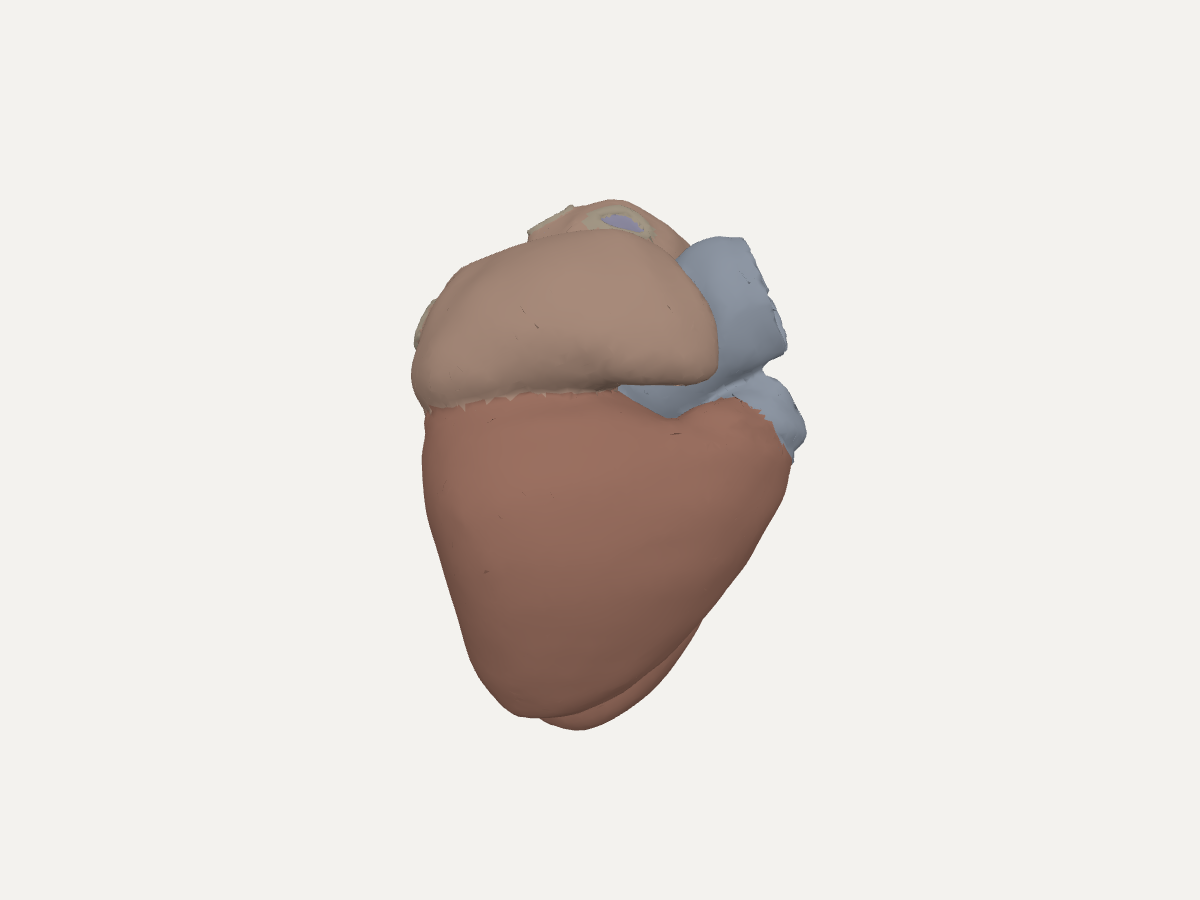
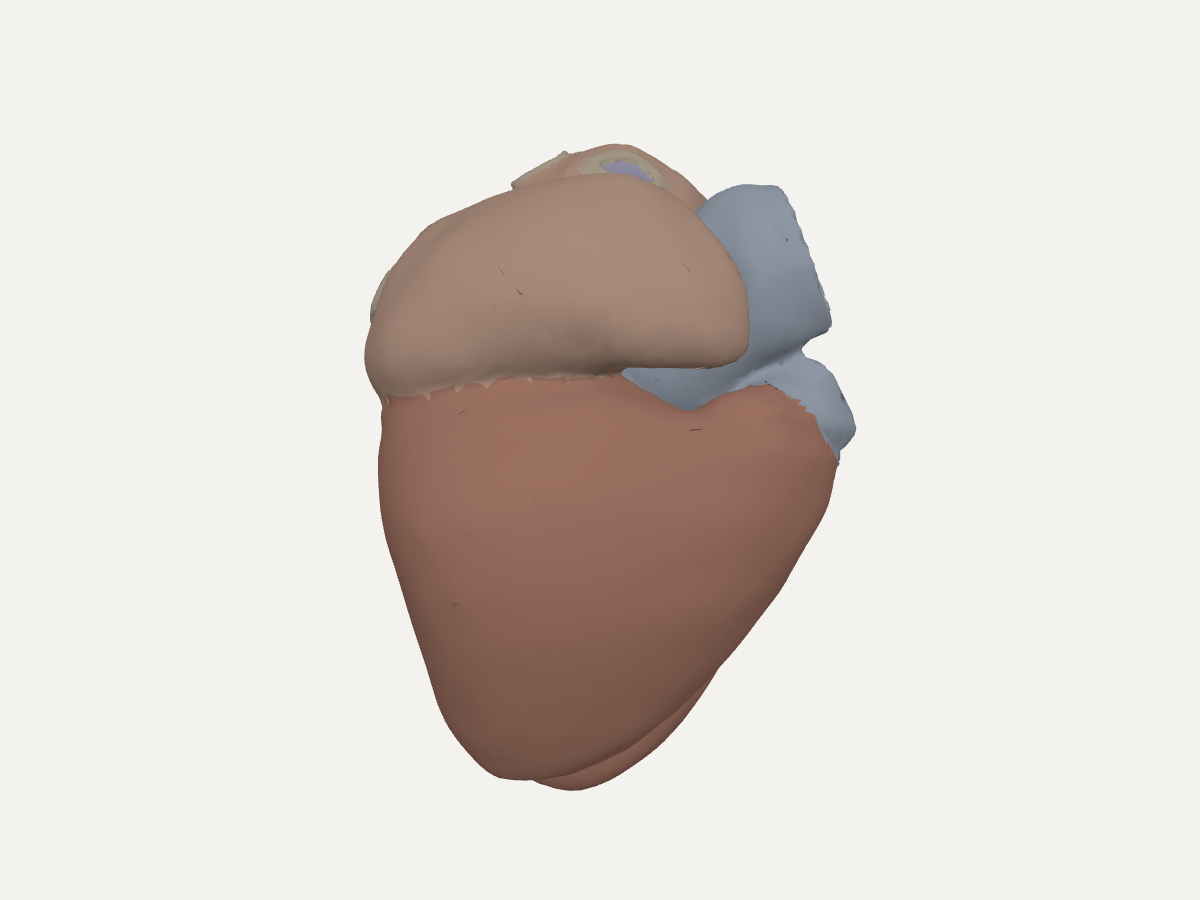
feat: viewer stage fills the viewport below the site bar
The stage and its control panel now take the full viewport height under the bar and a
thin research-use strip; the panel scrolls on its own. Breadcrumb, title, the other
statements and provenance sit below at the site's reading width. The bar height is
measured at runtime so the layout holds on the real site. Framing tightened so the
heart fills more of the stage; still image re-rendered. Phones stack the panel under
a 60vh stage. Chosen by the author on 2026-09-26: side panel, text below.

Changed region(s): [[0.2775, 0.1556, 0.7092, 0.9022]]

diff --git a/web/viewer/index.html b/web/viewer/index.html
@@ -10,18 +10,25 @@
   <link rel="stylesheet" href="/site.css">
   <style>
     html, body { overflow-x: hidden; }
+    /* This page is edge to edge: the stage and its panel fill the viewport below the site bar and
+       the research-use strip. Text sections below keep the site's reading width. */
+    main.vw-page { max-width: none; padding: 0; }
+    .vw-text { width: 100%; max-width: 1080px; margin: 0 auto; padding: 1.5rem 1.25rem 4rem; box-sizing: border-box; }
     .vw-crumb { font-size: .9rem; margin: 0 0 .4rem; }
     .vw-warn { border-left: 4px solid #b3541e; padding: .4rem .8rem; background: rgba(179,84,30,.07); }
-    .vw { display: grid; grid-template-columns: minmax(0, 1fr) 300px; gap: 1rem; margin: 1rem 0 1.4rem; }
-    .vw__stage { position: relative; aspect-ratio: 4 / 3; min-width: 0; background: #f3f2ee;
-      border: 1px solid rgba(0,0,0,.12); border-radius: 10px; overflow: hidden; }
+    .vw-strip { margin: 0; padding: .35rem 1.25rem; font-size: .9rem; border-left: 0;
+      border-bottom: 1px solid rgba(179,84,30,.25); }
+    .vw { display: grid; grid-template-columns: minmax(0, 1fr) 320px; gap: 0; margin: 0;
+      height: calc(100vh - var(--ale-bar, 64px) - var(--ale-strip, 34px)); min-height: 420px; }
+    .vw__stage { position: relative; height: 100%; min-width: 0; background: #f3f2ee;
+      border-right: 1px solid rgba(0,0,0,.12); overflow: hidden; }
     .vw__stage canvas { display: block; width: 100%; height: 100%; touch-action: none; cursor: grab; }
     .vw__stage canvas:active { cursor: grabbing; }
     .vw__overlay { position: absolute; inset: 0; display: grid; place-items: center; text-align: center;
       padding: 1rem; background: rgba(243,242,238,.92); }
     .vw__overlay[hidden] { display: none; }
     .vw__fallback img { max-width: 100%; height: auto; border-radius: 6px; }
-    .vw__controls { min-width: 0; font-size: .95rem; }
+    .vw__controls { min-width: 0; font-size: .95rem; height: 100%; overflow-y: auto; padding: .8rem 1rem; box-sizing: border-box; }
     .vw__controls fieldset { border: 1px solid rgba(0,0,0,.12); border-radius: 8px; padding: .5rem .8rem .7rem; margin: 0 0 .9rem; }
     .vw__controls legend { font-weight: 600; padding: 0 .3rem; }
     .vw-mode { margin: 0 0 .6rem; }
@@ -44,7 +51,9 @@
     #provenance table { border-collapse: collapse; }
     #provenance td, #provenance th { text-align: left; vertical-align: top; padding: .25rem .6rem .25rem 0; }
     @media (max-width: 640px) {
-      .vw { grid-template-columns: 1fr; }
+      .vw { grid-template-columns: 1fr; height: auto; min-height: 0; }
+      .vw__stage { height: 60vh; border-right: 0; border-bottom: 1px solid rgba(0,0,0,.12); }
+      .vw__controls { height: auto; }
       .legend { columns: 1; }
     }
     @media (prefers-color-scheme: dark) {
@@ -55,7 +64,8 @@
     }
     body.still .vw { grid-template-columns: 1fr; }
     body.still .vw__controls, body.still .site-bar, body.still h1, body.still p, body.still section { display: none; }
-    body.still .vw__stage { width: 1200px; height: 900px; aspect-ratio: auto; border: 0; border-radius: 0; }
+    body.still .vw__stage { width: 1200px; height: 900px; border: 0; }
+    body.still .vw { height: auto; }
   </style>
   <script type="importmap">{"imports": {"three": "../vendor/three.module.min.js"}}</script>
 </head>
@@ -78,18 +88,9 @@
     </div>
   </header>
 
-  <main id="main" class="page-main wrap">
-    <p class="vw-crumb"><a href="/projects/ale/">aleArrhythmia</a> / Anatomy viewer</p>
-    <h1>Anatomy viewer</h1>
-
-    <p id="research-use" class="vw-warn"><strong>Research use only.</strong> This is a research tool, not a
+  <main id="main" class="page-main wrap vw-page">
+    <p id="research-use" class="vw-warn vw-strip"><strong>Research use only.</strong> This is a research tool, not a
     medical device, and nothing here should guide a procedure.</p>
-    <p id="exploratory">No canonical reference space has been chosen. Every coordinate shown belongs to the
-    frame of the geometry on screen and transfers to nothing else.</p>
-    <p id="mean-statement">The default heart is a population mean, the average shape of a cohort of twenty
-    adults, and is not any individual's anatomy.</p>
-    <p id="no-result">Nothing shown encodes a measurement or a statistical result. Colours tell structures
-    apart and nothing more.</p>
 
     <div class="vw">
       <div class="vw__stage" id="stage-box">
@@ -174,6 +175,16 @@
       </aside>
     </div>
 
+    <div class="vw-text">
+    <p class="vw-crumb"><a href="/projects/ale/">aleArrhythmia</a> / Anatomy viewer</p>
+    <h1>Anatomy viewer</h1>
+    <p id="exploratory">No canonical reference space has been chosen. Every coordinate shown belongs to the
+    frame of the geometry on screen and transfers to nothing else.</p>
+    <p id="mean-statement">The default heart is a population mean, the average shape of a cohort of twenty
+    adults, and is not any individual's anatomy.</p>
+    <p id="no-result">Nothing shown encodes a measurement or a statistical result. Colours tell structures
+    apart and nothing more.</p>
+
     <p id="error" class="vw-warn" hidden></p>
 
     <section id="provenance">
@@ -190,6 +201,7 @@
       Augustin C, Plank G, Vigmond EJ, Lamata P, Niederer SA. Virtual cohort of extreme and average four-chamber
       heart meshes from statistical shape model. Zenodo, 2021. 10.5281/zenodo.4593739. CC BY 4.0.</p>
     </section>
+    </div>
   </main>
 
   <script type="module" src="viewer.js"></script>

diff --git a/web/viewer/viewer.js b/web/viewer/viewer.js
@@ -117,6 +117,12 @@ async function main() {
   Object.assign(state, { renderer, scene, camera, controls, modes });
 
   function resize() {
+    // The stage height is the viewport minus whatever the site bar and the strip measure here.
+    const bar = document.querySelector('.site-bar');
+    const strip = $('research-use');
+    const root = document.documentElement.style;
+    if (bar) root.setProperty('--ale-bar', `${bar.offsetHeight}px`);
+    if (strip) root.setProperty('--ale-strip', `${strip.offsetHeight}px`);
     const w = box.clientWidth || 800;
     const h = box.clientHeight || 600;
     renderer.setSize(w, h, false);
@@ -200,7 +206,8 @@ function frameCamera(bounds, view) {
   const { camera, controls } = state;
   const sphere = bounds.getBoundingSphere(new THREE.Sphere());
   const r = sphere.radius;
-  const dist = (r / Math.sin(THREE.MathUtils.degToRad(camera.fov / 2))) * 1.1;
+  // The bounding sphere overstates the heart, so a factor under one still keeps it inside the view.
+  const dist = (r / Math.sin(THREE.MathUtils.degToRad(camera.fov / 2))) * 0.9;
   camera.near = r * 0.05;
   camera.far = dist * 10;
   camera.updateProjectionMatrix();
